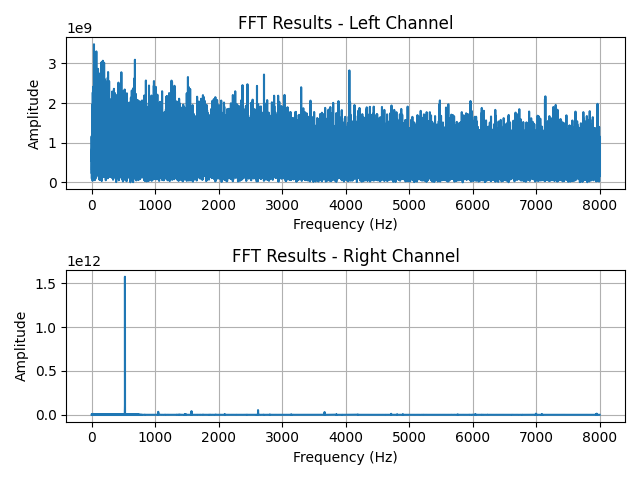
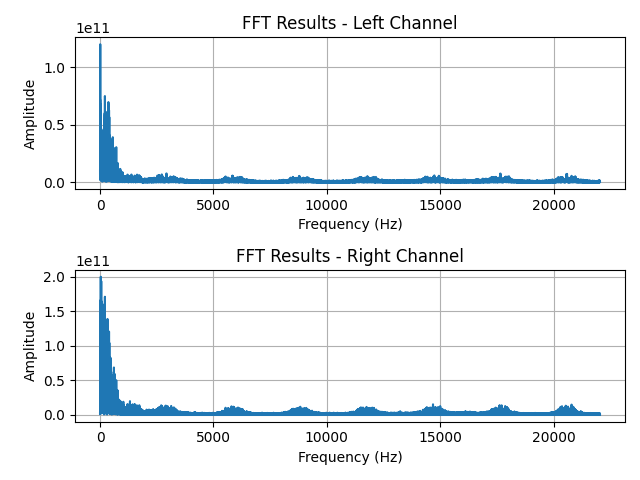
Fine tune audio recording and connection with whisper

diff --git a/scripts/get_audio_orbecc.py b/scripts/get_audio_orbecc.py
@@ -1,8 +1,7 @@
 import rospy
 from std_msgs.msg import UInt8, String
 
-import alsaaudio
-from scipy.io.wavfile import write
+import pyaudio
 import wave
 import whisper
 import numpy as np
@@ -11,15 +10,12 @@ import time
 
 class MicAudio:
 
-    def __init__(self, sample_rate=32000, channels=2, data_format=alsaaudio.PCM_FORMAT_S32_LE, period_size=1024, device='hw:APE,1'):
-
-        self.period_size = period_size
-        self.channels = channels
+    def __init__(self, sample_rate=16000, channels=2, device_index=None):
+        self.p = pyaudio.PyAudio()
+        self.stream = None
         self.sample_rate = sample_rate
-
-        self.pcm = alsaaudio.PCM(alsaaudio.PCM_CAPTURE, alsaaudio.PCM_NORMAL, channels=channels, rate=sample_rate, format=data_format, periodsize=period_size, device=device)
-        
-        # Create an empty list to store the recorded data
+        self.channels = channels
+        self.device_index = device_index
         self.frames = []
 
         self.is_recording = False
@@ -30,8 +26,6 @@ class MicAudio:
 
         self.button_status = 0
         self.button_subscriber = rospy.Subscriber('/button_status', UInt8, self.button_callback, queue_size=1)
-
-        print("Ready to record audio...")
 
     def button_callback(self, msg):
         # See if the LSB is 1 or 0
@@ -45,6 +39,14 @@ class MicAudio:
                 self.is_recording = False          
 
     def record_audio(self):
+        
+        self.stream = self.p.open(format=pyaudio.paInt16,
+                        channels=self.channels,
+                        rate=self.sample_rate,
+                        input=True,
+                        input_device_index=self.device_index,
+                        frames_per_buffer=1024)
+        
         print("Recording...")
         self.frames = []
         self.is_recording = True
@@ -53,26 +55,23 @@ class MicAudio:
     def run(self):
         while not rospy.is_shutdown():
             if self.is_recording and time.time() - self.record_start_time < 10:
-
-                # Read from the PCM input buffer
-                length, data = self.pcm.read()
-
-                if length:
-                    # Reshape data to multi-channel format (if needed)
-                    reshaped_data = np.frombuffer(data, dtype='<i4').reshape(-1, self.channels, order='C')
-
-                    # data is really 24 bit, rescale to be 32 bit
-                    reshaped_data = reshaped_data * 2**12
-
-                    # Append the reshaped data to the frames list
-                    self.frames.append(reshaped_data)
+                data = self.stream.read(1024)
+                self.frames.append(data)
             else:
                 self.is_recording = False     
                 if self.frames:
                     print("Recording finished.")
+                    
+                    # Stop and close the stream
+                    self.stream.stop_stream()
+                    self.stream.close()
 
-                    audio_data = np.concatenate(self.frames)
-                    write("output.wav", self.sample_rate, audio_data)
+                    # Save the recorded data as a WAV file
+                    with wave.open('output.wav', 'wb') as wf:
+                        wf.setnchannels(self.channels)
+                        wf.setsampwidth(self.p.get_sample_size(pyaudio.paInt16))
+                        wf.setframerate(self.sample_rate)
+                        wf.writeframes(b''.join(self.frames))
                     
                     self.frames = None
 
@@ -83,7 +82,7 @@ class MicAudio:
                     print(result["text"])
                     self.audio_input_publisher.publish(result["text"])
 
-            rospy.sleep(1/(self.sample_rate+1000))
+            rospy.sleep(1/17000)
 
 
     def shutdown(self):
@@ -92,7 +91,7 @@ class MicAudio:
 
 if __name__ == '__main__':
     rospy.init_node('mic_audio_node')
-    mic_audio = MicAudio()
+    mic_audio = MicAudio(device_index=0)
     try:
         mic_audio.run()
     except rospy.ROSInterruptException:

diff --git a/scripts/record.py b/scripts/record.py
@@ -50,7 +50,7 @@ def record_audio(duration=5, sample_rate=44100, channels=2, data_format=alsaaudi
             reshaped_data = np.frombuffer(data, dtype='<i4').reshape(-1, channels, order='C')
 
             # data is really 24 bit, rescale to be 32 bit
-            reshaped_data = reshaped_data * 2**9
+            reshaped_data = reshaped_data * 2**12
 
             print("Max Amplitude: ", np.max(np.abs(reshaped_data)))
             audio_data.append(reshaped_data)
@@ -73,7 +73,7 @@ def record_audio(duration=5, sample_rate=44100, channels=2, data_format=alsaaudi
 
 # Record 5 seconds of audio
 duration = 5  # seconds
-sample_rate = 16000  # Sample rate (CD quality)
+sample_rate = 32000  # Sample rate (CD quality)
 channels = 2  # Stereo
 
 audio_samples = record_audio(duration, sample_rate, channels)
